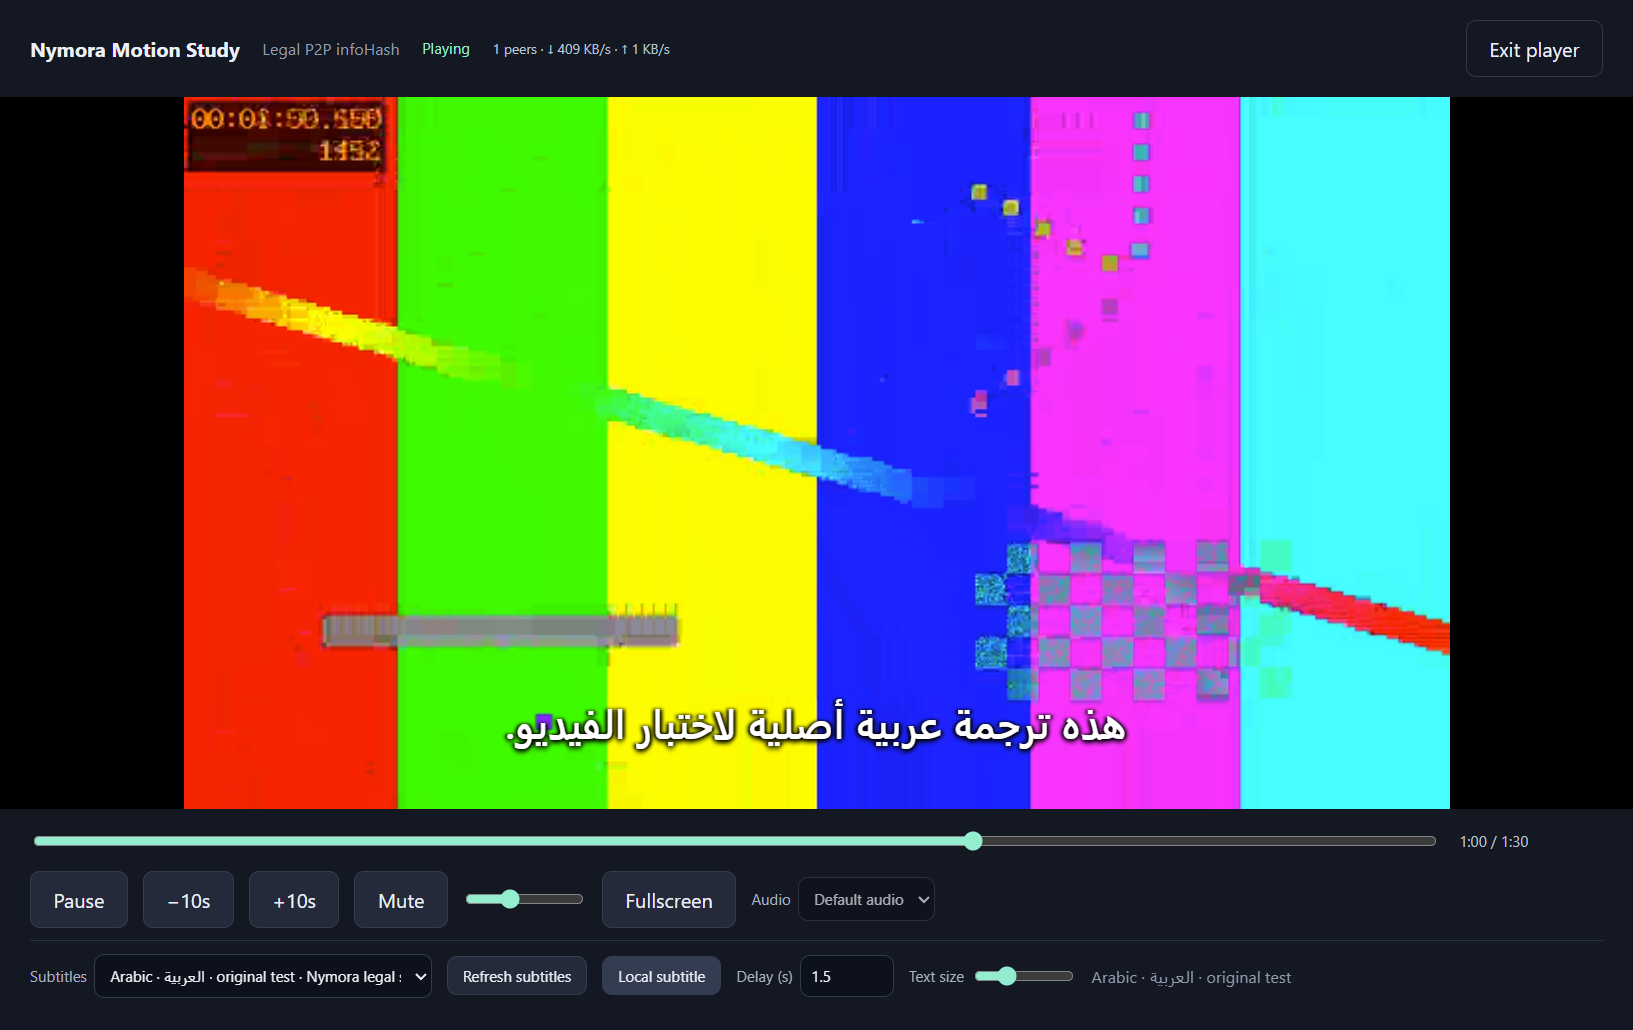
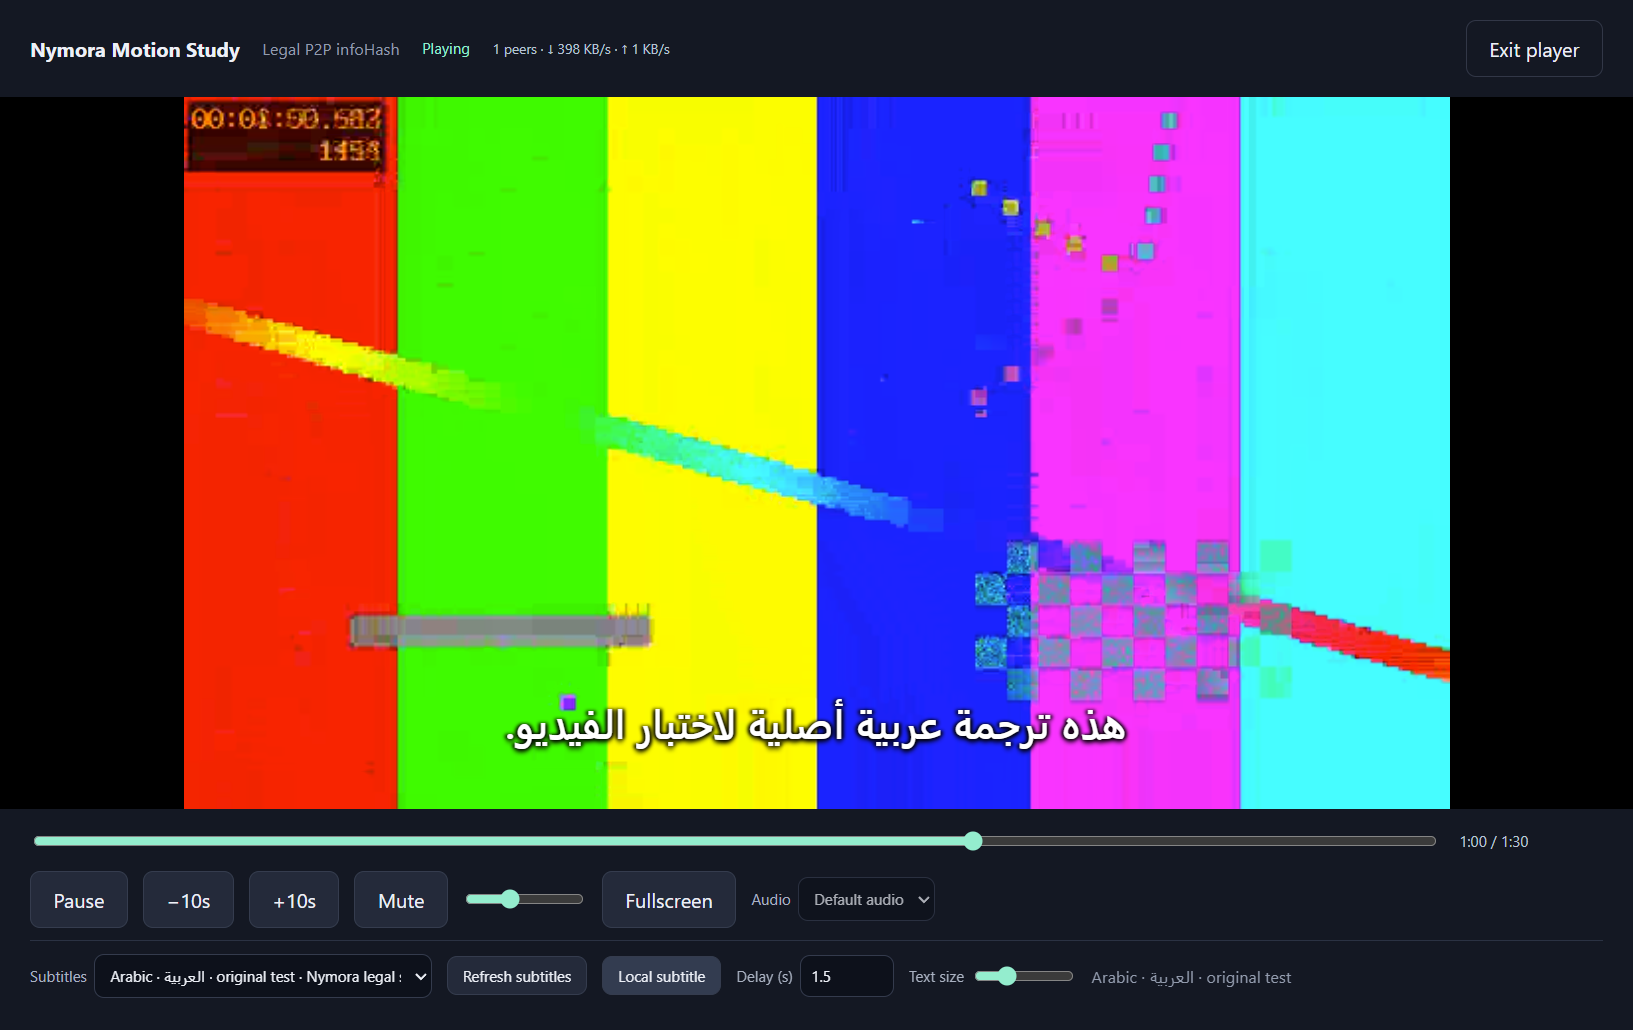
Record public 1.0.1 Alpha installer and media-flow verification

diff --git a/docs/P2P_QA-1.0.1.md b/docs/P2P_QA-1.0.1.md
@@ -42,7 +42,18 @@ Locally built installer SHA-256: `de853add1084e693c778058b99e256a2436cdf30a031e1
 
[1 lines of base64/hex data omitted]
 
-The GitHub release workflow rebuilds and tests packaged binaries before attaching them. Its public artifact hashes may differ from local builds; use the checksum manifest accompanying that release. Public-download verification is recorded separately once those assets are available.
+The public [v1.0.1 Alpha release](https://github.com/igc27/Nymora/releases/tag/v1.0.1) targets commit `e54ca15c04774c73ffd6d25f03bc00a48ccef885`. Both source CI runs passed. The [Windows release workflow](https://github.com/igc27/Nymora/actions/runs/37090221044) passed packaged HTTP/HLS and P2P tests before attaching the assets.
+
+Both public assets were downloaded and their SHA-256 values matched the public checksum manifest and GitHub digests. The public installer completed with exit 0. Its installed application passed all **20 P2P and 33 HTTP/HLS desktop checks** again, including real engine integration. Public-build P2P playback decoded 13 frames at 640×360 with 933888 of 3627633 bytes downloaded, and magnet resume reached 60.704142 seconds. The numerical results in the earlier checks section describe the local build; current machine-readable desktop evidence is from this public installer. The separate actual native-notice evidence is from the earlier local build of the same consent code.
+
[1 lines of base64/hex data omitted]
+
+Public release SHA-256 values:
+
[2 lines of base64/hex data omitted]
+
+See [public release verification](p2p-release-evidence-1.0.1.json) and [the published release screenshot](screenshots/release-1.0.1.png).
 
 Tests use original developer-owned 90-second H.264/AAC media and original English/Arabic subtitles, only a loopback TCP seeder and HTTP tracker, with public discovery disabled in isolated QA. Public DHT/PEX reachability, UDP/WS trackers and WebRTC interoperability are not independently certified. Optional uTP is omitted. Codecs depend on Chromium; a .mkv extension does not guarantee that its codecs are playable. v2-only magnets, DRM and legacy/IPFS-only sources are unsupported. Selected video plus piece padding must fit the configured 256–16384 MB cache; default 2 GiB. Windows 11 was tested, separate Windows 10 hardware was not. Installer is unsigned.
 

diff --git a/README.md b/README.md
@@ -12,7 +12,7 @@ Nymora is an independent project, not affiliated with, sponsored by or endorsed 
 
 ## Windows installation
 
-Use the [GitHub Releases page](https://github.com/igc27/Nymora/releases). Download the versioned Windows x64 Setup EXE, compare its SHA-256 value with `SHA256SUMS.txt`, and run it. The installer supports a per-user installation, Start Menu and optional desktop shortcuts, and uninstall through Windows Settings. Windows 10/11 x64 is the target; Windows 11 was tested. Releases are currently unsigned.
+Use the [1.0.1 Alpha release](https://github.com/igc27/Nymora/releases/tag/v1.0.1). Download `Nymora-1.0.1-Windows-x64-Setup.exe`, compare its SHA-256 value with `SHA256SUMS.txt`, and run it. The installer supports a per-user installation, Start Menu and optional desktop shortcuts, and uninstall through Windows Settings. Windows 10/11 x64 is the target; Windows 11 was tested. Releases are currently unsigned. Other versions remain on the [GitHub Releases page](https://github.com/igc27/Nymora/releases).
 
 An optional versioned Windows x64 Portable ZIP contains the same desktop client. Extract it before launching `Nymora.exe`. Portable mode uses the ordinary local data folder unless `NYMORA_DATA_DIR` is explicitly set.
 
